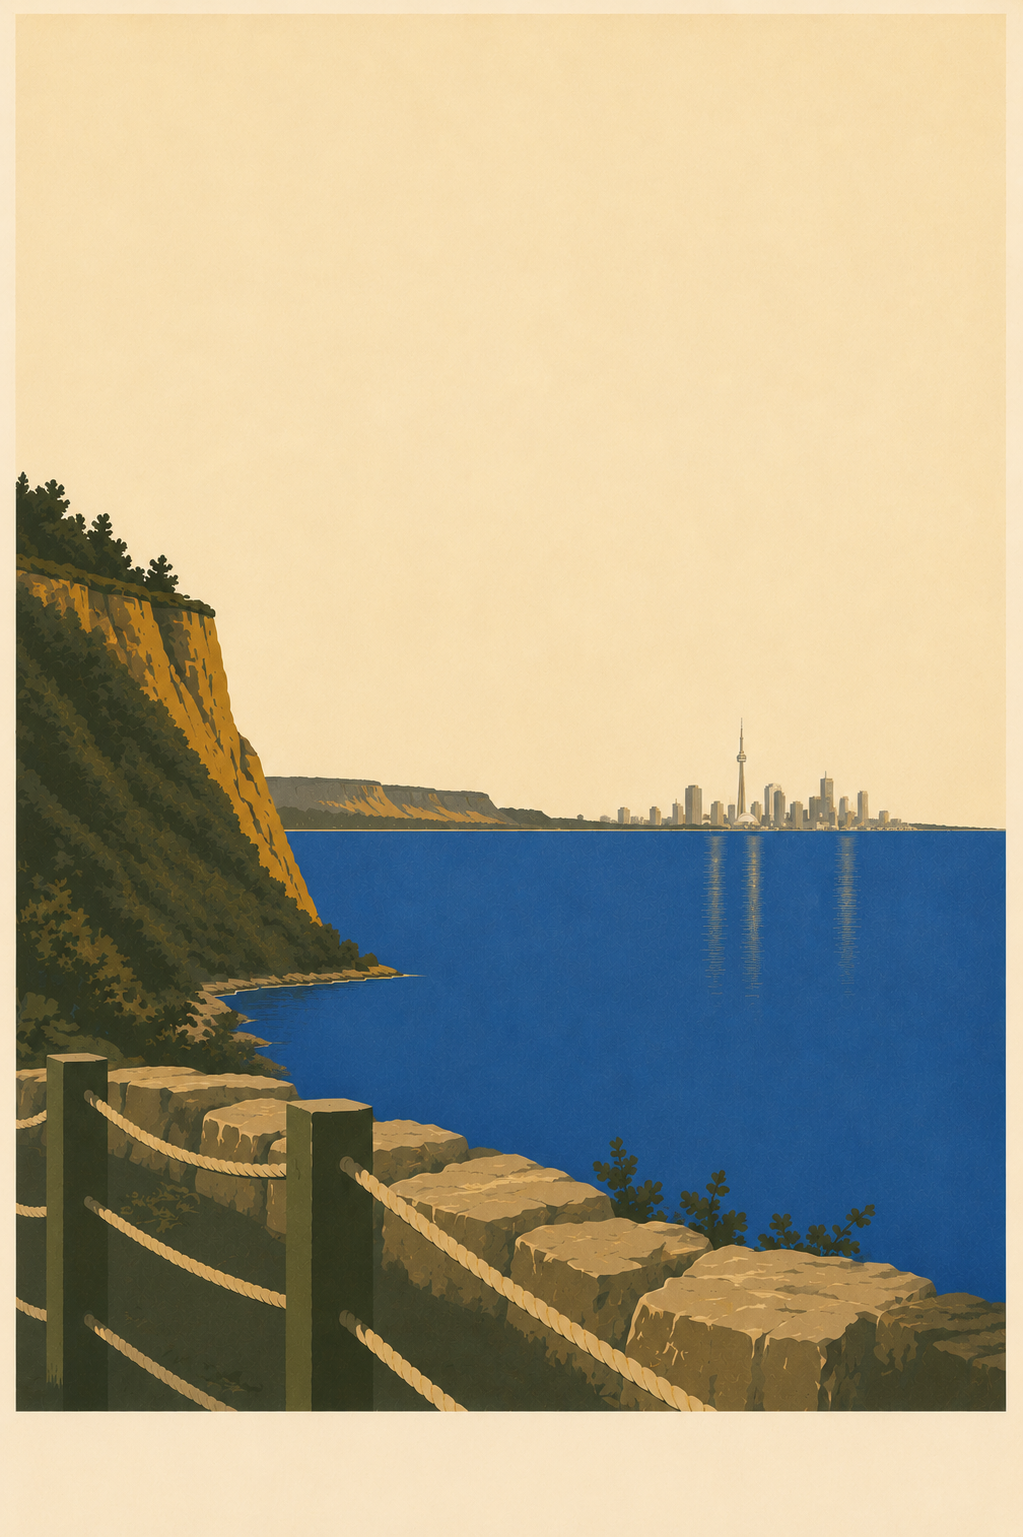
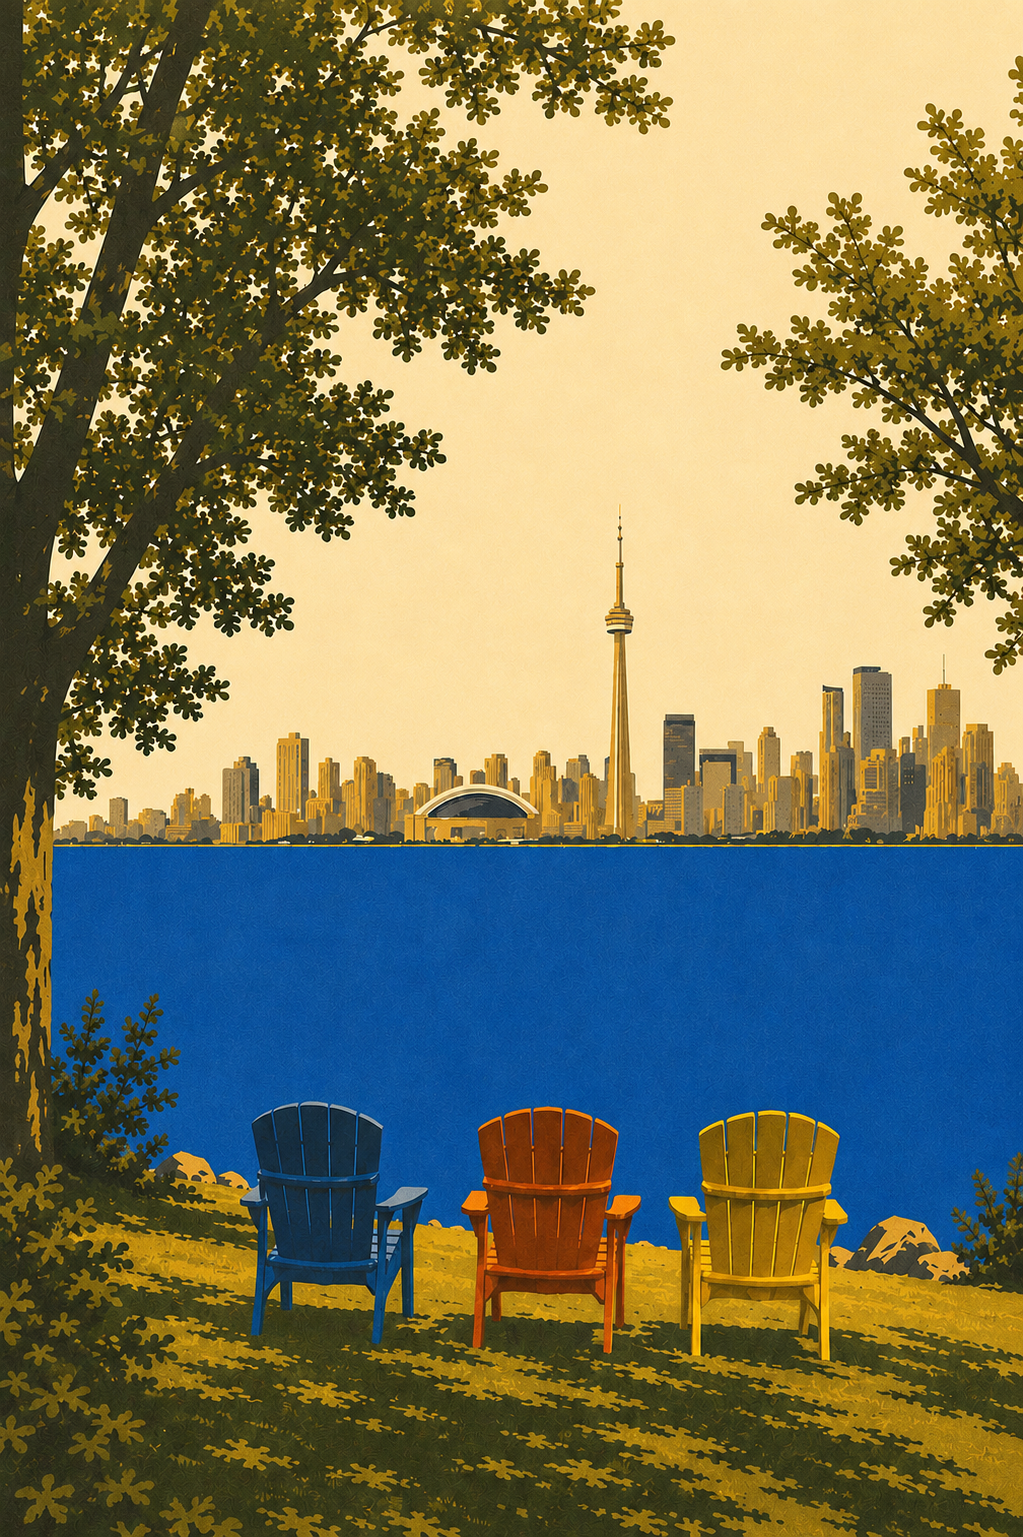
update images

diff --git a/index.html b/index.html
@@ -39,26 +39,26 @@ title: Fitore Jaha Price, Director of Engineering
   <div class="journey-principles__grid">
     <div class="journey-principles__item">
       <img class="journey-principles__img" src="{{ '/images/journey-kosovo.png' | relative_url }}" alt="Kosovo alpine mountain valley">
-      <span class="journey-principles__principle">Learning</span>
-      <p class="journey-principles__description">Where it started &mdash; the lesson is in the origin.</p>
+      <span class="journey-principles__principle">Foundations</span>
+      <p class="journey-principles__description">Origin. The first principles everything else is built on.<br/><br/></p>
       <span class="journey-principles__place">Kosovo</span>
     </div>
     <div class="journey-principles__item">
       <img class="journey-principles__img" src="{{ '/images/journey-jerusalem.png' | relative_url }}" alt="Jerusalem through a stone arch">
       <span class="journey-principles__principle">Translation</span>
-      <p class="journey-principles__description">Between worlds &mdash; meaning exists in the crossing.</p>
+      <p class="journey-principles__description">Old systems, new layers. The work is always in the crossing.<br/><br/></p>
       <span class="journey-principles__place">Middle East</span>
     </div>
     <div class="journey-principles__item">
       <img class="journey-principles__img" src="{{ '/images/journey-auckland.png' | relative_url }}" alt="Auckland harbour and volcanic cone">
       <span class="journey-principles__principle">Adaptation</span>
-      <p class="journey-principles__description">Change is a constant &mdash; systems must adapt.</p>
+      <p class="journey-principles__description">The volcano doesn't ask permission. Neither does growth.</p>
       <span class="journey-principles__place">New Zealand</span>
     </div>
     <div class="journey-principles__item">
       <img class="journey-principles__img" src="{{ '/images/journey-ontario.png' | relative_url }}" alt="Ontario escarpment and Lake Ontario">
       <span class="journey-principles__principle">Ownership</span>
-      <p class="journey-principles__description">Growing roots and building with others &mdash; accountability is the foundation.</p>
+      <p class="journey-principles__description">This is where I chose to stay. Building for the ones who come after.</p>
       <span class="journey-principles__place">Canada</span>
     </div>
   </div>